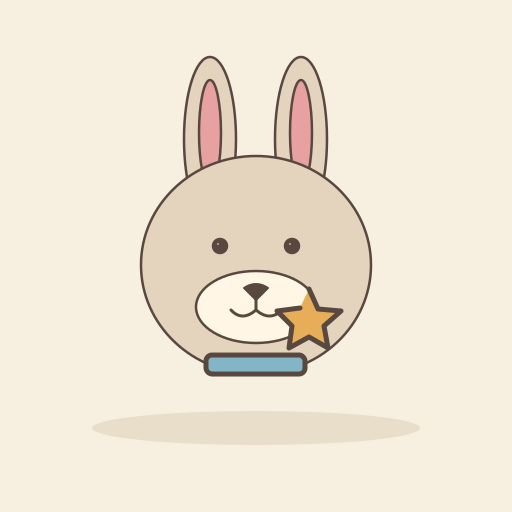
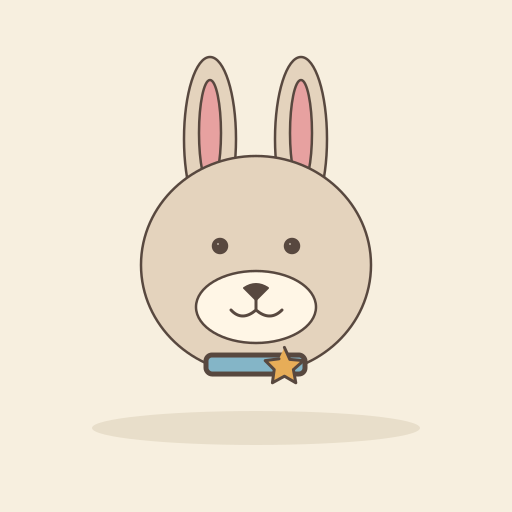
fix(assets): place star bunny brooch on scarf

Changed region(s): [[0.5, 0.5625, 0.6875, 0.75]]

diff --git a/scripts/assets/build-defaults.py b/scripts/assets/build-defaults.py
@@ -124,7 +124,7 @@ add('snow','雪地雪人','scene',rect(66,85,380,351,'#d7e4e2',38)+path('M66 365
 add('library','图书角阅读','scene',rect(100,133,312,218,'#c5a17e',8)+line('M112 235 L401 235 M112 335 L401 335',w=7)+''.join(rect(x,161,w,68,c,3) for x,w,c in [(126,28,BLUE),(160,38,GREEN),(204,26,PINK),(245,41,GOLD),(301,28,BLUE),(338,47,GREEN)])+''.join(rect(x,260,35,68,c,3) for x,c in [(125,GOLD),(170,PINK),(215,BLUE),(284,GREEN),(331,GOLD)])+ellipse(258,408,114,28,'#b7cbb5')+path('M192 387 Q225 370 256 390 Q286 370 321 387 L321 419 Q288 405 256 424 Q223 405 192 419 Z',CREAM),'书架前一本打开的书，无文字')
 # Four original fantasy identities. Never substitute these for real species.
 add('cloud-dragon','云朵龙','fantasy',path('M331 309 Q410 334 395 266 Q433 326 374 362 L318 352',GREEN)+ellipse(256,317,84,88,GREEN)+path('M190 293 L124 216 L128 312 L183 337',BLUE)+path('M323 290 L380 214 L383 310 L333 337',BLUE)+face(GREEN,'point')+path('M221 178 L225 145 L242 177 M275 177 L291 146 L294 181',GOLD)+rect(227,330,59,21,GOLD,6),'薄荷绿龙、蓝翼、金双角、金围巾')
-add('star-bunny','星星兔','fantasy',face('#e4d3bd','long')+path('M309 289 L318 309 L341 311 L324 326 L328 348 L309 337 L289 348 L292 326 L277 311 L300 308',GOLD)+rect(206,355,99,19,BLUE,6),'奶油兔、长耳粉内耳、蓝围巾、金星胸针')
+add('star-bunny','星星兔','fantasy',face('#e4d3bd','long')+rect(206,355,99,19,BLUE,6)+'<g transform="translate(99 174) scale(0.6)">'+path('M309 289 L318 309 L341 311 L324 326 L328 348 L309 337 L289 348 L292 326 L277 311 L300 308',GOLD)+'</g>','奶油兔、长耳粉内耳、蓝围巾、金星胸针')
 add('moon-robot','月亮机器人','fantasy',line('M256 163 L256 132',w=8)+circle(256,124,15,GOLD)+rect(155,172,202,166,BLUE,40)+eyes(y=242,gap=44)+line('M226 286 Q256 303 286 286',w=5)+rect(200,345,112,58,'#a9c9d0')+rect(135,218,19,70,GOLD,8)+rect(358,218,19,70,GOLD,8)+circle(256,373,16,GOLD),'蓝色圆角机身、双眼、金天线球、金胸灯')
 add('leaf-spirit','叶子精灵','fantasy',ellipse(256,291,85,108,'#b5c69c')+path('M256 207 Q168 141 193 111 Q269 117 256 207',GREEN)+path('M256 207 Q267 122 325 137 Q335 179 256 207',GREEN)+eyes(y=274,gap=29)+line('M235 309 Q256 326 277 309',w=4)+ellipse(168,304,29,18,GREEN)+ellipse(345,304,29,18,GREEN)+rect(213,344,87,18,GOLD,7),'浅绿椭圆身体、两片深绿顶叶、金腰带')
 assert len(items)==60
